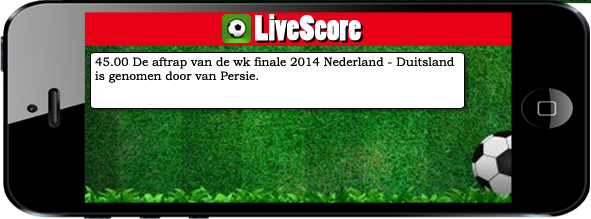
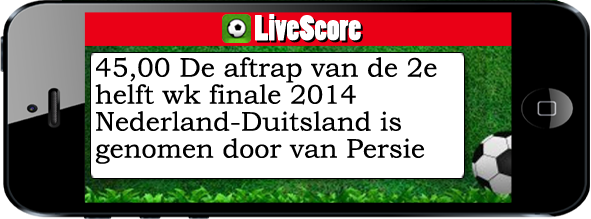
vierde commit, enemies toegevoegd

Changed region(s): [[0.1523, 0.2466, 0.7919, 0.8493], [0.9442, 0.0, 1.0, 0.0274]]

diff --git a/js/game.js b/js/game.js
@@ -40,7 +40,6 @@ window.onload = function(){
 	window.autoRechtsx = 500;
 	window.autoRechtsy = 290;
 
-
 //  auto in het midden
 	window.autoPositie = 1;
 
@@ -114,7 +113,14 @@ window.onload = function(){
 //  enemy message array 
 
 	window.currentMessage = 0;
+	window.currentMessageDrawing = false;
 	window.messageY = 0;
+
+	window.messageHeight  = 140;
+	window.messageWidth = 591;
+
+	window.messageActive = false;
+	window.messageActivesec = 0;
 	window.enemyMessages = new Array();
 
 	enemyMessages.push(enemyMessage_1);
@@ -176,9 +182,9 @@ function restartGame() {
 	autoPositie = 1;
 	tijdTeller = 0;
 	gameProgressie = 0;	
-	messageY = 0;
+	messageY = -219;
 	seconden = 0;
-	startFunctionsInterval = setInterval(gameFunctions, 10);
+	startFunctionsInterval = setInterval(gameFunctions, 25);
 	tijdSecondenInterval = setInterval(everySecond, 1000);
 
 }
@@ -194,7 +200,7 @@ function endGame() {
 }
 
 function gameFunctions() {
-	//console.log('in de gameFunctions()');
+
 	if(gameStatus == 1) {
 		reDraw();
 		collisionDetection();
@@ -211,8 +217,6 @@ function collisionDetection() {
 	for(var i = 0; i < enemyArray.length; i++ ) {
 
 		if( enemyArray[i].levend) {
-			//console.log('auto xpos+61 =  ' + (autoPos.xPos + 61) +  ' enemy xmax = ' + (enemyArray.xPos + (enemyArray[i].scaleFactor * enemyWidth)) );
-			//console.log('scale factor = ' + enemyArray[i].scaleFactor + '   enemy width = ' + enemyWidth);
 
 			if (enemyArray[i].yPos < autoPos.yPos + 30) {
 			// if als er botsing is
@@ -275,12 +279,9 @@ function keyboardListener(e) {
     if(code == 84) {
     	if(gameStatus == 3) {
     	createEnemy(); }
-    	//console.log('createEnemy()');
     }
     // Y knop ingedrukt
     if(code == 89) {
-
-    	console.log(auto);
 
     }
 } // einde 
@@ -326,8 +327,6 @@ function createEnemy(row) {
 	enemy = new Object();
 
 	enemy.row = row;
-	//enemy.row =  Math.floor(Math.random()* 3 );
-	//enemy.row = 1;
 
 	// als het straks random is
 	enemy.soort = Math.floor( (Math.random()*5) );
@@ -347,7 +346,9 @@ function createEnemy(row) {
 
 	}
 
-	enemy.scaleFactor = 1;
+	enemy.speed = 1;
+
+	enemy.scaleFactor = 0.3;
 	enemy.levend = true;
 
 	enemyArray.push(enemy);
@@ -357,36 +358,41 @@ function createEnemy(row) {
 // tekent de enemies
 function drawEnemies() {
 	
-	tijdTeller++;
+	if(gameStatus == 1) {
+		tijdTeller++;
 
-		
-	for(var i = 0; i < enemyArray.length; i++ ) {
-		//console.log('in de drawEnemies() for loop');
-		// img, x, y, width, height
-		//console.log( 'enemyArray .type ' + enemyArray[i].type  );//enemySoortArray[enemyArray[i].type].src);
-		
-		// check enemy.levend = true
-		if(enemyArray[i].levend) {
-
-/*			if(enemyArray[i].scaleFactor <= 1 && (tijdTeller % 2) == 0) {
-
-				enemyArray[i].scaleFactor += 0.01;
-			}*/
-			if(enemyArray[i].yPos <= 400 ) {
-				//volgPad(i);
-				enemyArray[i].yPos+=1;
-			} // einde if ypos >= 400
-			else {
-				enemyArray[i].levend = false;
-				//enemyArray.splice(i, 1);
-			}
-
-			canvasContext.drawImage( enemySoortArray[enemyArray[i].soort], enemyArray[i].xPos - (enemyWidth*enemyArray[i].scaleFactor / 2), enemyArray[i].yPos, enemyWidth*enemyArray[i].scaleFactor, enemyHeight*enemyArray[i].scaleFactor );
-
-		} // einde if enemy is levend
+		for(var i = 0; i < enemyArray.length; i++ ) {
 			
-	} // einde for loop;
+			// check enemy.levend = true
+			if(enemyArray[i].levend) {
 
+				if(enemyArray[i].scaleFactor < 1) {
+
+					enemyArray[i].scaleFactor += 0.01; 
+				}
+
+				if(enemyArray[i].yPos <= 400 ) {
+					//volgPad(i);
+					console.log('enemy speed ' + enemyArray[0].speed); 
+					if( enemyArray[i].yPos % 30 == 0 ) {
+					//enemyArray[i].yPos == 20 ||enemyArray[i].yPos == 40 || enemyArray[i].yPos == 80 || enemyArray[i].yPos == 100 || enemyArray[i].yPos == 120 || enemyArray[i].yPos == 150 || enemyArray[i].yPos == 175 || enemyArray[i].yPos == 200 || enemyArray[i].yPos == 250 || enemyArray[i].yPos == 300) {
+
+						enemyArray[i].speed++;
+					}
+
+					enemyArray[i].yPos+= enemyArray[i].speed;
+				} // einde if ypos >= 400
+				else {
+					enemyArray[i].levend = false;
+					//enemyArray.splice(i, 1);
+				}
+
+				canvasContext.drawImage( enemySoortArray[enemyArray[i].soort], enemyArray[i].xPos - (enemyWidth*enemyArray[i].scaleFactor / 2), enemyArray[i].yPos, enemyWidth*enemyArray[i].scaleFactor, enemyHeight*enemyArray[i].scaleFactor );
+
+			} // einde if enemy is levend
+				
+		} // einde for loop;
+	} // eidne if gamestatus
 
 } // einde drawEnemies
 
@@ -435,28 +441,46 @@ function drawMessages() {
 
 	if(gameStatus == 1) {
 
-		if( seconden >= 3 && seconden <= 6 || 
+		if( currentMessageDrawing && messageActive
+/*
+			 seconden >= 3 && seconden <= 6 || 
 			seconden >= 8 && seconden <= 12 || 
 			seconden >= 14 && seconden <= 16 ||
 			seconden >= 18 && seconden <= 20 ||
 			seconden >= 22 && seconden <= 23 ||
 			seconden >= 25 && seconden <= 28 ||
 			seconden >= 30 && seconden <= 31 ||
-			seconden >= 33 && seconden <= 36
+			seconden >= 33 && seconden <= 36*/
 
 			) {
-			
-			canvasContext.drawImage(enemyMessages[currentMessage], 57, messageY);
 
+
+				if(messageY < 0 && currentMessageDrawing) {
+					messageY += 5;
+				}
+
+				canvasContext.drawImage(enemyMessages[currentMessage], 57, messageY, messageWidth, messageHeight);
 
 		} // einde if secopnden
+		else {
+			if(messageY >= -140 && currentMessageDrawing) {
+
+				messageY -= 2;
+				canvasContext.drawImage(enemyMessages[currentMessage], 57, messageY , messageWidth, messageHeight);
+
+			}
+			else {
+
+				messageY = -140;
+				currentMessageDrawing = false;
+			}
+		}
 
 	} // einde if gamestatus == 1 
 
 }
 
 function everySecond() {
-
 	spawnEnemies();
 	secondenPlusPlus();
 }
@@ -465,20 +489,24 @@ function secondenPlusPlus() {
 
 	if(gameStatus == 1) {
 
-		if (seconden == 6 || seconden == 12 || seconden == 16 || seconden == 20 || seconden == 23 || seconden == 28 || seconden == 31 || seconden == 36) {
-			currentMessage++;
+		if(seconden % 5 == 0 && seconden > 4) {
+			if(seconden > 6) {
+				currentMessage++;
+			}
+
+			messageActivesec = seconden;
+
+			messageActive = true;
+			currentMessageDrawing = true;
 		}
 
+		if(messageActive && seconden == messageActivesec + 2)
+		{
+			messageActive = false;
 
-		if (seconden == 10 || seconden == 20) {
-
-			messageY += 15;
 		}
-
 
 		seconden++;
-		console.log('seconde asdfsaf: ' + seconden + '  GANMEPROGRESSIE : ' + gameProgressie + '   enemy array length' +  enemyArray.length  );
-
 
 	}
 
@@ -486,8 +514,35 @@ function secondenPlusPlus() {
 
 function spawnEnemies() {
 
-	// draw 0 en 1
-	if (seconden == 6 || seconden == 16 || seconden == 26 || seconden == 34) {
+	if(gameStatus == 1) {
+		if(seconden % 2 == 0) {
+			var  randomnummer = Math.floor( (Math.random()*4) );
+			switch (randomnummer)
+			{
+			case 0:
+			  createEnemy(0);
+			  createEnemy(1);
+			  break;
+			case 1:
+			  createEnemy(1);
+			  createEnemy(2);
+			  break;
+			case 2:
+			  createEnemy(0);
+			  createEnemy(2);
+			  break;
+			case 3:
+			  createEnemy(1);
+			  break;
+			case 4:
+			  createEnemy(0);
+			  break;
+		}
+	}
+}
+
+/*	// draw 0 en 1
+	if (seconden == 3 || seconden == 6 || seconden == 16 || seconden == 26 || seconden == 34) {
 
 		createEnemy(0);
 		createEnemy(1);
@@ -526,96 +581,6 @@ function spawnEnemies() {
 	if (seconden == 18) {
 
 		createEnemy(2);
-	}
-
-
-}
-
-
-
-// dump code niet meer nodig misschien handig
-
-
-// laat enemies het juiste pad volgen
-/*function volgPad(a) {
-	console.log(a);
-	var y = enemyArray[a].yPos;
-			console.log(y);	
-	if( enemyArray[a].row == 1) {
-		if ( (y % 4) == 0 && y < 290) {	
-
-		if( y == 90 || y == 95 || y == 100 || y == 105 || y == 110 || y == 115 || y == 120 || y == 125 || y == 130 || y == 135 || 
-			y == 140 || y == 145 || y == 150 || y == 155 || y == 160 || y == 165 || y == 170 || y == 175 || y == 180 || y == 190 || y == 195 || y == 200 ||
-			y == 205 || y == 210 || y == 215 || y == 220 || y == 225 || y == 230 || y == 235 || y == 240 || y == 245 || y == 250 || y == 255 || y == 260 || 
-			y == 265 || y == 270 || )  {
-
-
-			enemyArray[a].xPos -= 1;
-		} // einde if xpos ==
-	} // einde if row =- 1 
-} // einde volgpad*/
-
-
-/*
-function setupGame() {
-
-	alert('gameCanvas');
-    var gameCanvas = document.getElementById("gameCanvas");
-    //avatar image    
-    setInterval(handleTick, 25);
-
-    var avatarImage = new Image();
-    avatarImage.src = "avatar.png";
-
-
-    avatarImage.onload = function () {
-	    //gameCanvas.getContext("2d").drawImage(avatarImage, Math.random() * 100, Math.random() * 100);
-	    gameCanvas.addEventListener("mousemove", handleMouseMomement);
-	}
-
-}	*/
- 
-/*function handleMouseMomement(mouseEvent) {
-
-	avatarX = mouseEvent.offsetX;
-    avatarY = mouseEvent.offsetY;
+	}*/
 
 }
-*/
-
-/*function handleTick() {
-
-    enemyY += 5;
-
-    //gameCanvas.getContext("2d").clearRect(0, 0, width, height);
-	var gameCanvas = document.getElementById("gameCanvas");
-
-	var avatarImage = new Image();
-	 
-	avatarImage.src = "avatar.png";
-
-	// clear scherm
-	
-	avatarImage.onload = function() {
-		//gameCanvas.getContext("2d").clearRect(0, 0, width, height);
-		gameCanvas.getContext("2d").drawImage(avatarImage, avatarX, avatarY);
-	}
-
-	    //enemy image
-    var enemyImage = new Image();
-    enemyImage.src = "enemy.png";
-
-	enemyImage.onload = function() {
-
-		if(enemyY >= 400) {
-			gameCanvas.getContext("2d").drawImage(enemyImage,  250, 0 ) ;
-			enemyY = 0;
-
-		} // einde if
-		else {
-			gameCanvas.getContext("2d").drawImage(enemyImage,  250, enemyY) ;		
-
-		} // einde end
-	} // eine enemy.onload function
-
-}*/
